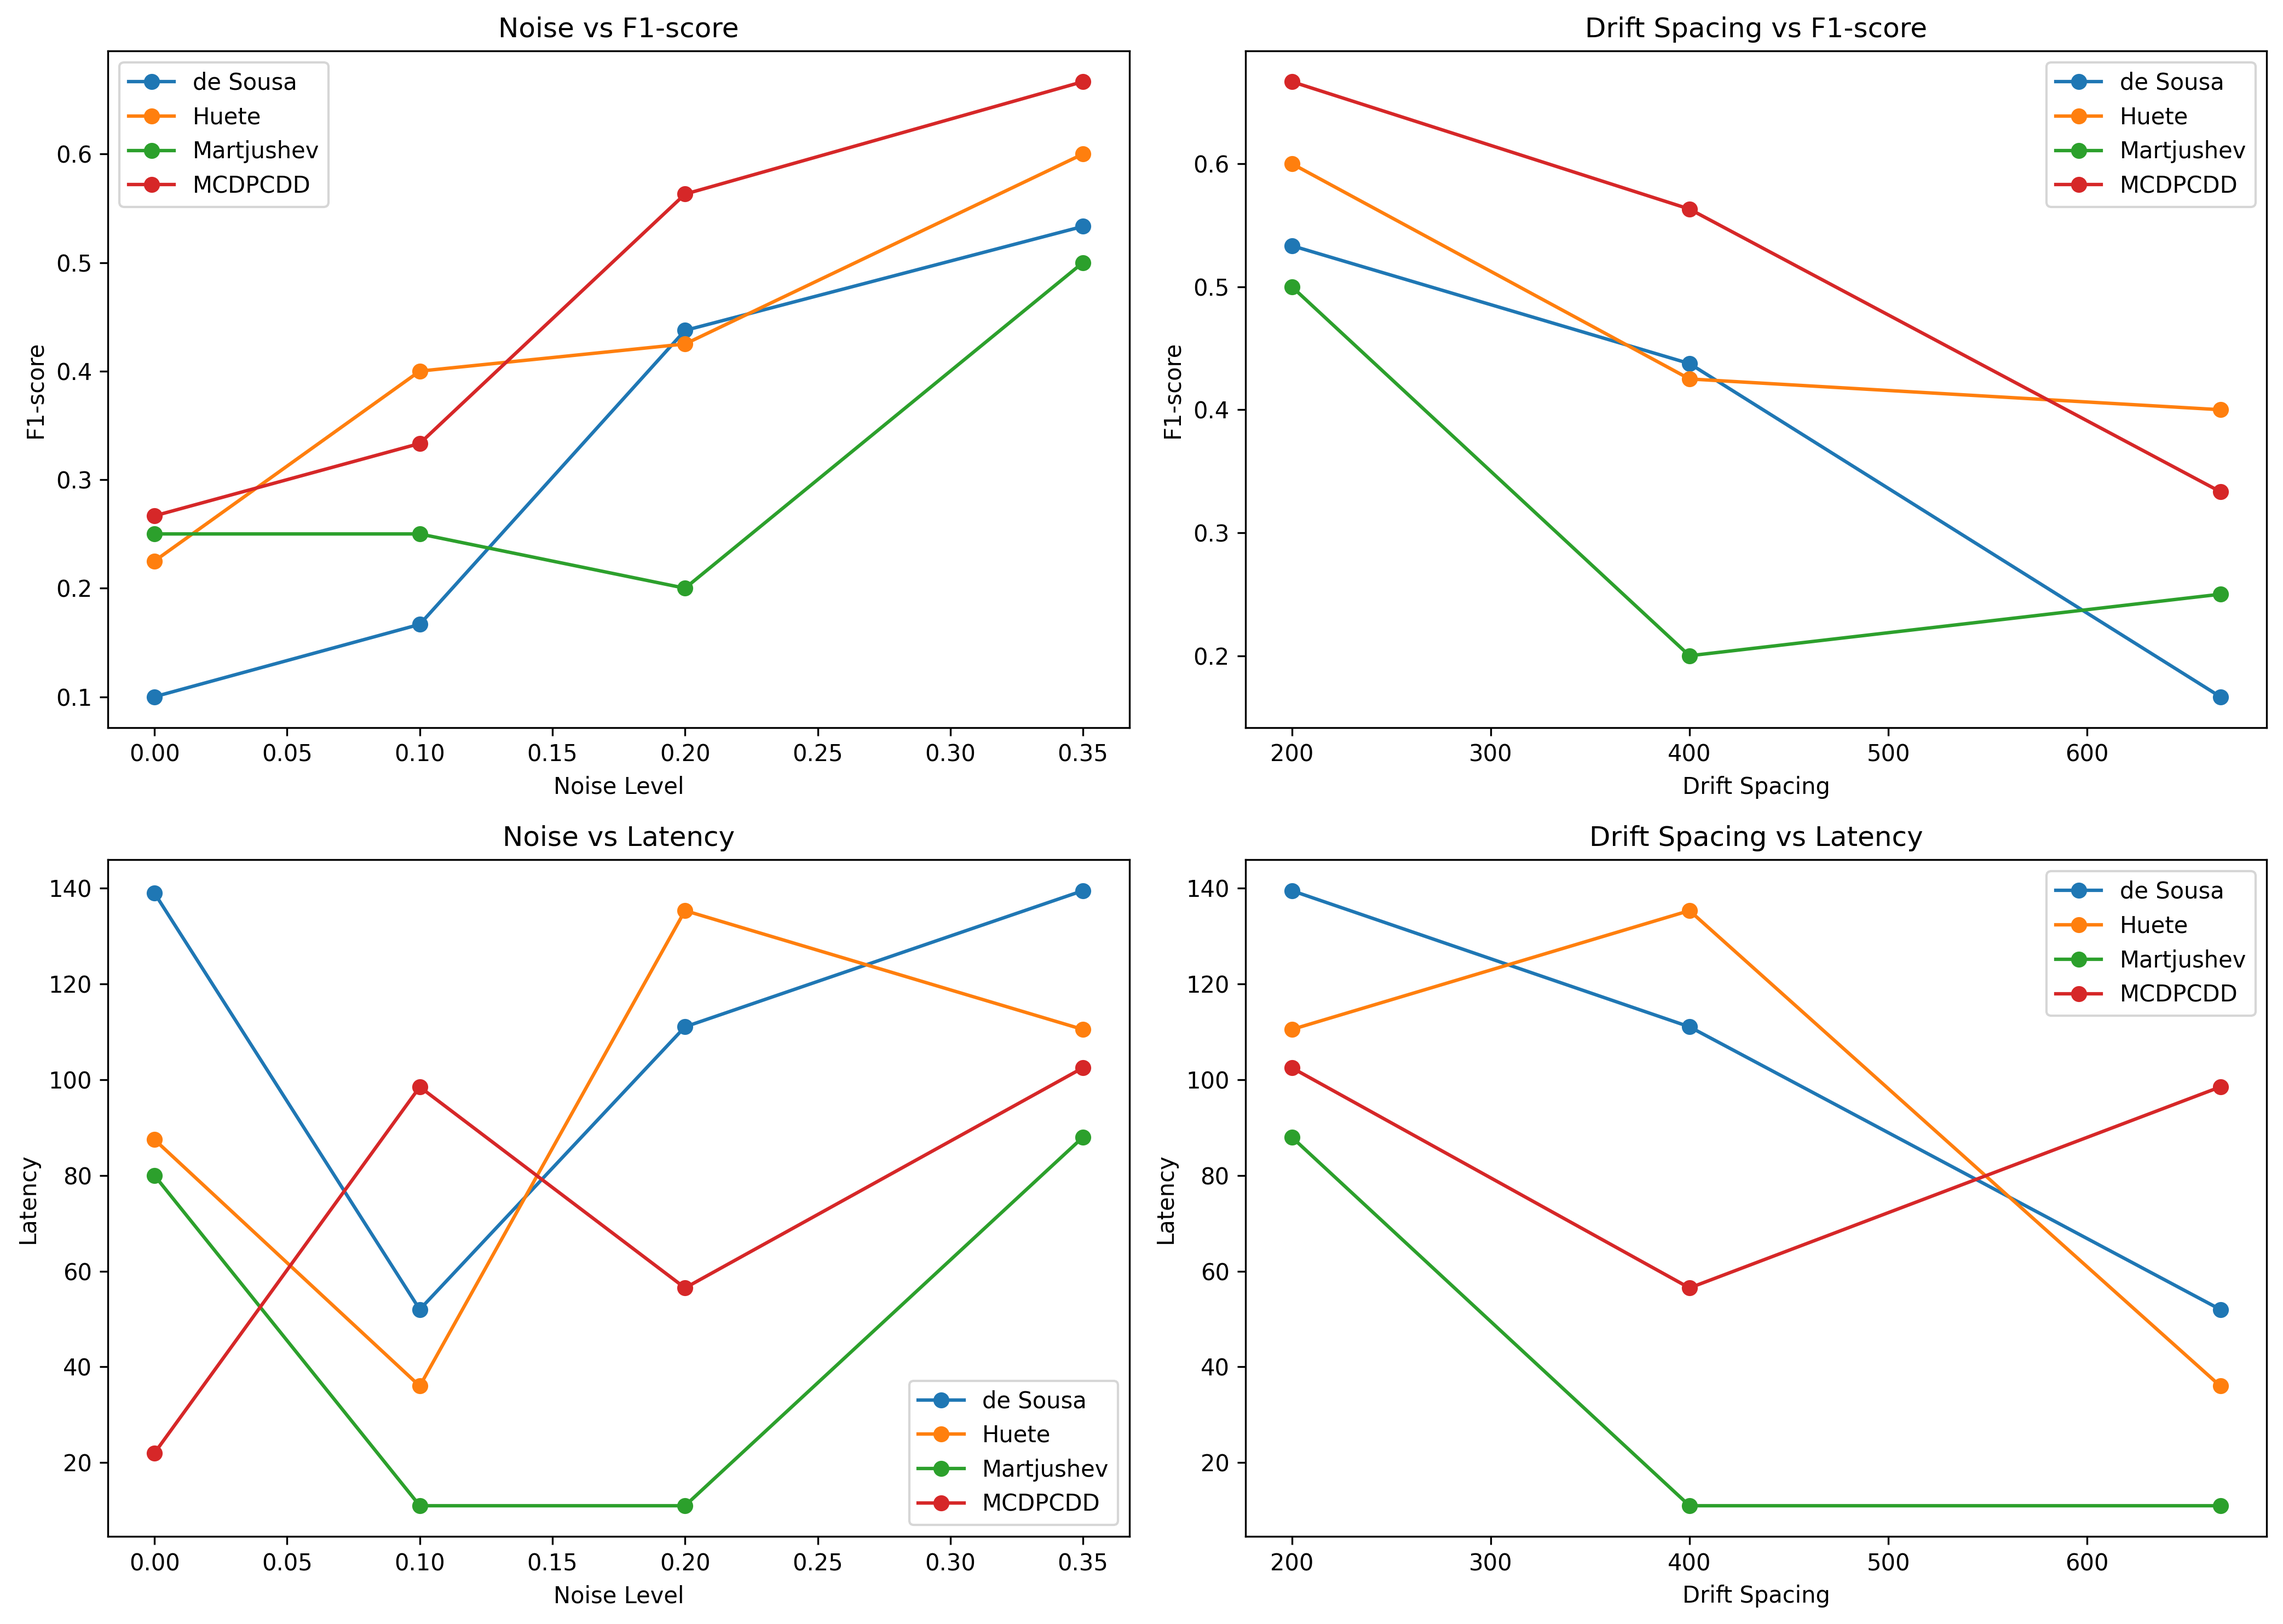
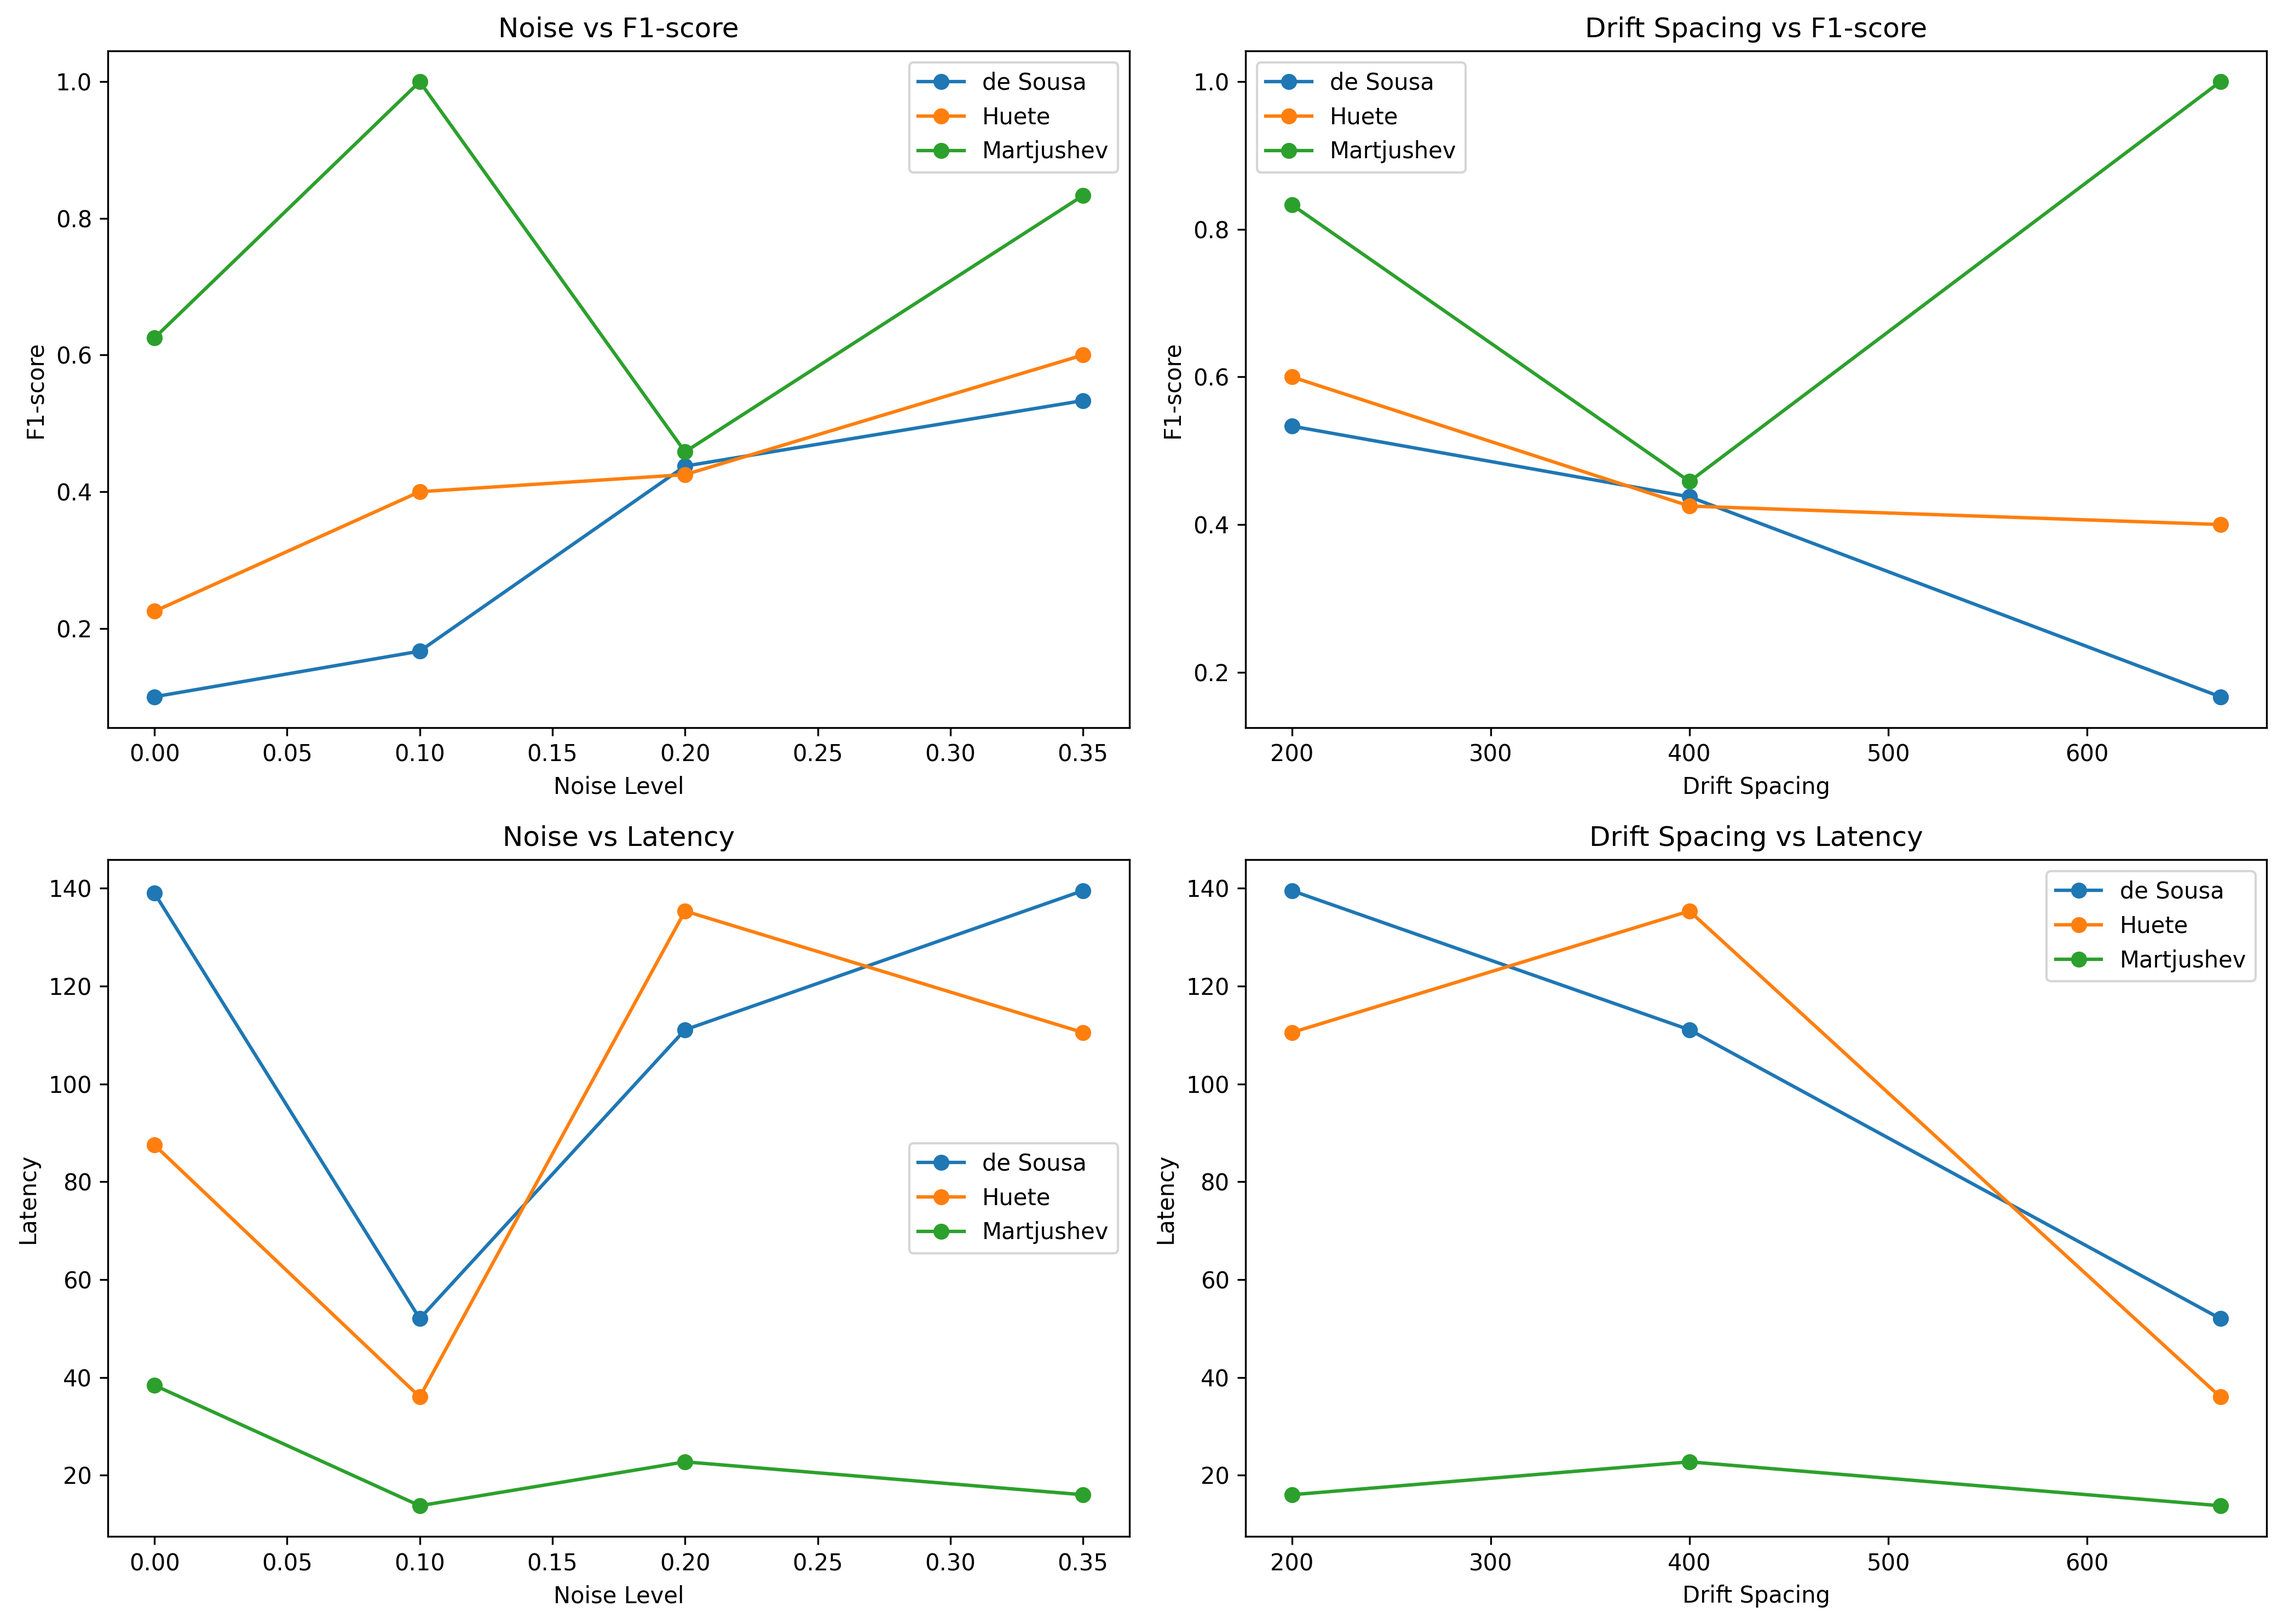
Parameter Sensitivity Experiment
-Adjusted the performance evaluation for Martjushev et al's method, allowing for a difference between offline and online detection
-Performed a parameter sensitivity experiment and added a separate plotting function for the results

diff --git a/Evaluation/EvaluatePerformance.py b/Evaluation/EvaluatePerformance.py
@@ -2,7 +2,6 @@
 import numpy as np
 import matplotlib.pyplot as plt
 
-import json
 
 #Actual drift locations, coupling the file name with the trace numbers
 actualDriftCoords = {
@@ -22,8 +21,13 @@ actualDriftCoords = {
 }
 
 
-def EvaluatePerformance(method_results_list, method_names, actualDriftCoords, lag_window=50, 
-                        plot=True, save_folder="evaluation_plots"):
+def EvaluatePerformance(method_results_list,
+                        method_names,
+                        actualDriftCoords,
+                        allow_early_detection,
+                        lag_window=50,
+                        plot=True,
+                        save_folder="evaluation_plots"):
 
     import os
     import numpy as np
@@ -36,6 +40,11 @@ def EvaluatePerformance(method_results_list, method_names, actualDriftCoords, la
     if len(method_results_list) != len(method_names):
         raise ValueError("method_results_list and method_names must have equal length.")
 
+    if len(allow_early_detection) != len(method_names):
+        raise ValueError(
+            "allow_early_detection must have the same length as method_names."
+        )
+    
     os.makedirs(save_folder, exist_ok=True)
 
     # ============================================================
@@ -150,6 +159,7 @@ def EvaluatePerformance(method_results_list, method_names, actualDriftCoords, la
     for method_idx, detectedDriftCoords in enumerate(method_results_list):
 
         method_name = method_names[method_idx]
+        allow_early = allow_early_detection[method_idx]
 
         print("\n" + "=" * 80)
         print(f"METHOD: {method_name}")
@@ -192,9 +202,16 @@ def EvaluatePerformance(method_results_list, method_names, actualDriftCoords, la
 
                     distance = d - a
 
-                    if 0 <= distance <= lag_window and distance < best_distance:
-                        best_distance = distance
-                        best_j = j
+                    if allow_early:
+                        # Offline methods: allow detections before or after the drift
+                        if abs(distance) <= lag_window and abs(distance) < best_distance:
+                            best_distance = abs(distance)
+                            best_j = j
+                    else:
+                        # Online methods: only allow detections after the drift
+                        if 0 <= distance <= lag_window and distance < best_distance:
+                            best_distance = distance
+                            best_j = j
 
                 if best_j is not None:
                     matched_actual.add(i)
@@ -611,36 +628,37 @@ martjushevCoords = {
 }
 
 MCDPCDDCoords = {
-    "Simple_1.xes" : [304, 539],
-    "Simple_2.xes" : [925],
-    "Simple_3.xes" : [263, 733, 1176],
-    "Simple_4.xes" : [560, 1116],
-    "Intermediate_1.xes" : [600, 1330, 1988],
-    "Intermediate_2.xes" : [873, 1566, 1899],
-    "Intermediate_3.xes" : [92, 295, 570, 830, 997, 1298, 1582, 1733, 1894],
-    "Intermediate_4.xes" : [150, 345, 650, 800, 1064, 1177, 1338, 1437, 1639, 1760],
-    "Difficult_1.xes" : [908, 1230],
-    "Difficult_2.xes" : [82, 189, 354, 515, 616, 822],
-    "Difficult_3.xes" : [175, 473, 1041, 1286, 1678],
-    "Difficult_4.xes" : [850],
+    "Simple_1.xes" : [1311],
+    "Simple_2.xes" : [332, 1329, 1823],
+    "Simple_3.xes" : [678],
+    "Simple_4.xes" : [532, 914, 1287],
+    "Intermediate_1.xes" : [357, 956, 1458, 1865],
+    "Intermediate_2.xes" : [379, 664, 966, 1369],
+    "Intermediate_3.xes" : [206, 466, 1405, 1570],
+    "Intermediate_4.xes" : [74, 262, 640, 841, 1112, 1245],
+    "Difficult_1.xes" : [401, 1230],
+    "Difficult_2.xes" : [189, 649, 854],
+    "Difficult_3.xes" : [190, 800, 1153, 1783],
+    "Difficult_4.xes" : [180, 712, 995],
     "BPIC2015Merged.xes" : [10, 20, 30, 43, 52, 64, 73, 89, 100, 109, 119, 132, 146, 159, 177, 195, 229, 246, 268, 282, 304, 313, 327, 335, 351, 377, 395, 412, 460, 483, 498, 519, 537, 563, 610, 627, 657, 697, 716, 731, 749, 765, 780, 791, 821, 836, 851, 868, 881, 895, 914, 935, 954, 966, 982, 1007, 1020, 1042, 1058, 1073, 1083, 1120, 1140, 1155, 1166, 1188, 1201, 1213, 1245, 1265, 1282, 1306, 1320, 1335, 1347, 1363, 1376, 1395, 1419, 1432, 1455, 1470, 1523, 1539, 1557, 1576, 1592, 1607, 1624, 1637, 1658, 1690, 1710, 1726, 1740, 1753, 1778, 1814, 1861, 1878, 1892, 1905, 1920, 1938, 1951, 1989, 2008, 2028, 2050, 2124, 2143, 2157, 2179, 2193, 2215, 2230, 2245, 2260, 2278, 2294, 2310, 2329, 2354, 2396, 2407, 2419, 2429, 2443, 2475, 2487, 2509, 2529, 2553, 2578, 2594, 2612, 2655, 2667, 2687, 2715, 2735, 2769, 2796, 2815, 2858, 2876, 2919, 2950, 2969, 2991, 3007, 3017, 3037, 3066, 3077, 3095, 3119, 3151, 3171, 3191, 3201, 3212, 3229, 3237, 3256, 3278, 3287, 3308, 3319, 3333, 3344, 3365, 3386, 3396, 3405, 3418, 3430, 3441, 3461, 3477, 3505, 3514, 3526, 3553, 3567, 3597, 3621, 3639, 3655, 3669, 3695, 3706, 3723, 3741, 3755, 3770, 3779, 3792, 3803, 3814, 3834, 3844, 3856, 3866, 3874, 3899, 3923, 3934, 3947, 3956, 3966, 3983, 3993, 4000, 4018, 4034, 4048, 4062, 4082, 4096, 4104, 4119, 4129, 4148, 4169, 4183, 4197, 4219, 4244, 4261, 4272, 4305, 4317, 4326, 4348, 4362, 4371, 4381, 4391, 4401, 4415]
 }
-
-with open("Evaluation/ParamSensResults.json", "r") as f:
-    ParamSens = json.load(f)
 
 
 EvaluatePerformance(
         method_results_list=[
         deSousaCoords,
         hueteCoords,
-        martjushevCoords,
-        ParamSens],
+        martjushevCoords],
     method_names=[
         "de Sousa",
         "Huete",
-        "Martjushev",
-        "MCDPCDD"],
+        "Martjushev"],
+    
+    allow_early_detection=[
+    False,   # de Sousa (online)
+    False,   # Huete (online)
+    True     # Martjushev (offline)
+    ],
     actualDriftCoords=actualDriftCoords,
     lag_window=200,
     save_folder="Evaluation/Plots"

diff --git a/Framework/main.py b/Framework/main.py
@@ -13,9 +13,6 @@ from encoder import Encoder
 from comparator import Comparator
 from detector import Detector
 
-import json
-import subprocess
-
 def main(config_file, seed=1111, device='cpu'):
 
     # ---------------- SEEDING ----------------
@@ -40,7 +37,6 @@ def main(config_file, seed=1111, device='cpu'):
         trace_map[prefix] = tf
 
     # ---------------- LOOP OVER DATASETS ----------------
-    evaluation_results = {}
     for df in dataset_files:
 
         prefix = df.replace('.npy', '')
@@ -168,35 +164,6 @@ def main(config_file, seed=1111, device='cpu'):
             first = False
 
         print(f"Detected drift trace IDs for {prefix}: {drift_Trace_IDs}")
-
-        # Convert dataset filename to evaluation filename
-        evaluation_results[f"{prefix}.xes"] = drift_Trace_IDs
-
-    # ==========================================================
-    # Save evaluation results
-    # ==========================================================
-
-    os.makedirs("Evaluation", exist_ok=True)
-
-    # Keep BPIC2015 fixed because it is not rerun
-    if "BPIC2015Merged.xes" not in evaluation_results:
-        evaluation_results["BPIC2015Merged.xes"] = [6, 15, 28, 39, 47, 58, 67, 79, 89, 101, 110, 124, 132, 142, 151, 159, 174, 183, 192, 205, 215, 228, 237, 247, 261, 270, 301, 309, 335, 346, 362, 389, 415, 461, 491, 518, 556, 585, 608, 629, 644, 662, 679, 695, 716, 727, 746, 771, 787, 802, 824, 843, 862, 883, 906, 918, 931, 944, 960, 982, 1006, 1019, 1034, 1049, 1068, 1082, 1109, 1125, 1150, 1162, 1171, 1189, 1209, 1259, 1281, 1299, 1330, 1343, 1361, 1372, 1387, 1421, 1433, 1451, 1465, 1496, 1511, 1523, 1535, 1548, 1573, 1584, 1596, 1624, 1636, 1647, 1664, 1690, 1706, 1718, 1756, 1778, 1801, 1831, 1873, 1886, 1901, 1916, 1928, 1959, 1976, 1989, 2008, 2026, 2049, 2062, 2128, 2170, 2189, 2201, 2226, 2239, 2258, 2280, 2292, 2316, 2328, 2345, 2357, 2380, 2396, 2408, 2425, 2435, 2472, 2488, 2530, 2547, 2562, 2594, 2618, 2633, 2644, 2664, 2691, 2707, 2720, 2733, 2777, 2812, 2825, 2835, 2845, 2879, 2901, 2919, 2930, 2955, 2988, 3007, 3022, 3035, 3070, 3082, 3103, 3114, 3131, 3168, 3179, 3229, 3237, 3256, 3276, 3314, 3328, 3340, 3351, 3373, 3383, 3405, 3420, 3436, 3459, 3504, 3512, 3552, 3567, 3585, 3600, 3613, 3624, 3655, 3688, 3698, 3720, 3744, 3780, 3804, 3814, 3834, 3851, 3868, 3883, 3897, 3906, 3920, 3947, 3960, 3979, 3990, 3999, 4011, 4036, 4049, 4059, 4074, 4092, 4102, 4120, 4146, 4155, 4172, 4185, 4197, 4206, 4216, 4240, 4259, 4272, 4314, 4323, 4333, 4346, 4357, 4370, 4387, 4398, 4407]
-
-    with open("Evaluation/ParamSensResults.json", "w") as f:
-        json.dump(evaluation_results, f, indent=4)
-
-    print("\nSaved evaluation results to Evaluation/ParamSensResults.json")
-
-    # ==========================================================
-    # Automatically run evaluation
-    # ==========================================================
-
-    print("\nLaunching evaluation...\n")
-
-    subprocess.run(
-        ["python", "Evaluation/EvaluatePerformance.py"],
-        check=True
-    )
 
 if __name__ == "__main__":
     parser = argparse.ArgumentParser()

diff --git a/Evaluation/ParameterSensitivityPlots.py b/Evaluation/ParameterSensitivityPlots.py
@@ -1,0 +1,91 @@
+import matplotlib.pyplot as plt
+
+# Common x-axis labels
+x_labels = ["Low", "Midlow", "Middle", "Midhigh", "High"]
+
+# ==========================================================
+# MCDPCDD
+# ==========================================================
+
+mcdpcdd_f1 = {
+    "Window Size": [0.39, 0.36, 0.41, 0.34, 0.37],
+    "Num Subwindows": [0.22, 0.17, 0.41, 0.33, 0.31],
+    "Percentile": [0.31, 0.35, 0.41, 0.29, 0.00],
+    "Learning Rate": [0.36, 0.16, 0.41, 0.37, 0.30],
+}
+
+mcdpcdd_latency = {
+    "Window Size": [55.42, 76.25, 60.11, 67.62, 84.29],
+    "Num Subwindows": [56.11, 47.75, 60.11, 69.70, 72.42],
+    "Percentile": [73.19, 52.04, 60.11, 43.91, 9.75],
+    "Learning Rate": [67.62, 38.00, 60.11, 65.12, 70.33],
+}
+
+plt.figure(figsize=(8,5))
+
+for name, values in mcdpcdd_f1.items():
+    plt.plot(x_labels, values, marker='o', label=name)
+
+plt.title("MCDPCDD Parameter Sensitivity (F1-score)")
+plt.xlabel("Parameter Setting")
+plt.ylabel("F1-score")
+plt.grid(True)
+plt.legend()
+plt.tight_layout()
+
+plt.figure(figsize=(8,5))
+
+for name, values in mcdpcdd_latency.items():
+    plt.plot(x_labels, values, marker='o', label=name)
+
+plt.title("MCDPCDD Parameter Sensitivity (Latency)")
+plt.xlabel("Parameter Setting")
+plt.ylabel("Latency")
+plt.grid(True)
+plt.legend()
+plt.tight_layout()
+
+
+# ==========================================================
+# Martjushev
+# ==========================================================
+
+mart_f1 = {
+    "Window Size": [0.64, 0.64, 0.64, 0.64, 0.64],
+    "Population Min": [0.45, 0.62, 0.64, 0.62, 0.59],
+    "Population Max": [0.51, 0.56, 0.64, 0.49, 0.42],
+    "Threshold": [0.48, 0.54, 0.64, 0.62, 0.47],
+}
+
+mart_latency = {
+    "Window Size": [24.68, 24.68, 24.68, 24.68, 24.68],
+    "Population Min": [30.44, 23.43, 24.68, 27.97, 32.25],
+    "Population Max": [23.29, 22.24, 24.68, 40.36, 54.12],
+    "Threshold": [26.73, 24.12, 24.68, 23.33, 34.27],
+}
+
+plt.figure(figsize=(8,5))
+
+for name, values in mart_f1.items():
+    plt.plot(x_labels, values, marker='o', label=name)
+
+plt.title("Martjushev Parameter Sensitivity (F1-score)")
+plt.xlabel("Parameter Setting")
+plt.ylabel("F1-score")
+plt.grid(True)
+plt.legend()
+plt.tight_layout()
+
+plt.figure(figsize=(8,5))
+
+for name, values in mart_latency.items():
+    plt.plot(x_labels, values, marker='o', label=name)
+
+plt.title("Martjushev Parameter Sensitivity (Latency)")
+plt.xlabel("Parameter Setting")
+plt.ylabel("Latency")
+plt.grid(True)
+plt.legend()
+plt.tight_layout()
+
+plt.show()
